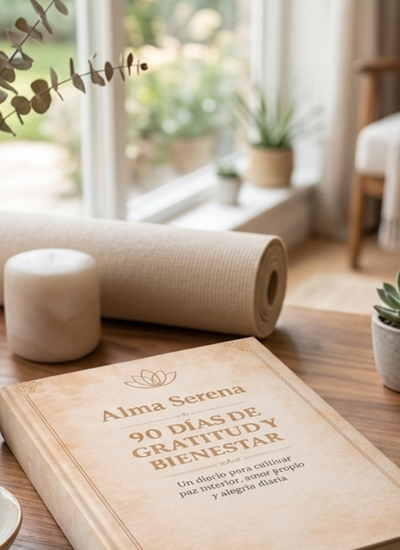
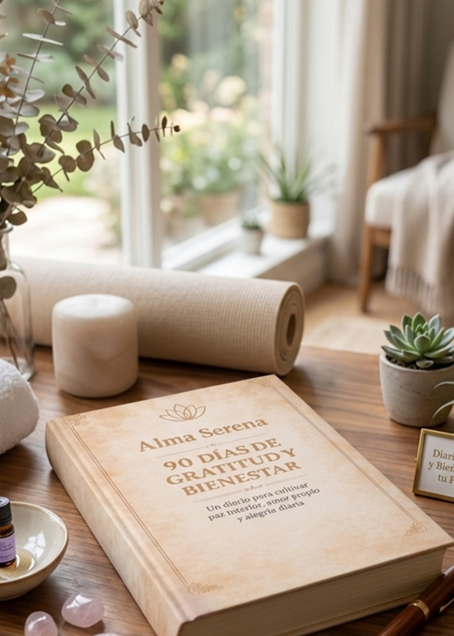
Change object-cover to object-contain for product images to show full diario

diff --git a/src/app/tienda/page.tsx b/src/app/tienda/page.tsx
@@ -56,7 +56,7 @@ export default async function ShopPage() {
                 {catProducts.map((item) => (
                   <div key={item.id} className="group p-5 rounded-xl bg-warm-white border border-sage/10 hover:border-sage/30 transition-all hover:shadow-sm flex flex-col">
                     <div className="relative w-full h-36 rounded-lg overflow-hidden mb-4 bg-sage/5 shrink-0">
-                      <Image src={item.image || "/images/portada.jpg"} alt={item.name} fill className="object-cover group-hover:scale-105 transition-transform duration-500" />
+                      <Image src={item.image || "/images/portada.jpg"} alt={item.name} fill className="object-contain group-hover:scale-105 transition-transform duration-500" />
                     </div>
                     <h3 className="font-serif text-lg text-sage-dark mb-1 shrink-0">{item.emoji} {item.name}</h3>
                     <p className="text-xs text-charcoal/50 mb-3 leading-relaxed flex-1">{item.desc}</p>

diff --git a/src/components/Carousel.tsx b/src/components/Carousel.tsx
@@ -26,7 +26,7 @@ export default function Carousel({ items }: { items: { id: string; name: string;
             style={{ opacity: i === current ? 1 : 0, pointerEvents: i === current ? "auto" : "none" }}
           >
             <div className="relative w-full max-w-xs h-40 mb-4 rounded-lg overflow-hidden bg-sage/5">
-              <Image src={item.image} alt={item.name} fill className="object-cover" />
+              <Image src={item.image} alt={item.name} fill className="object-contain" />
             </div>
             <h3 className="font-serif text-lg text-sage-dark mb-1">{item.name}</h3>
             <p className="text-sm text-gold font-medium mb-3">${item.price.toFixed(2)}</p>